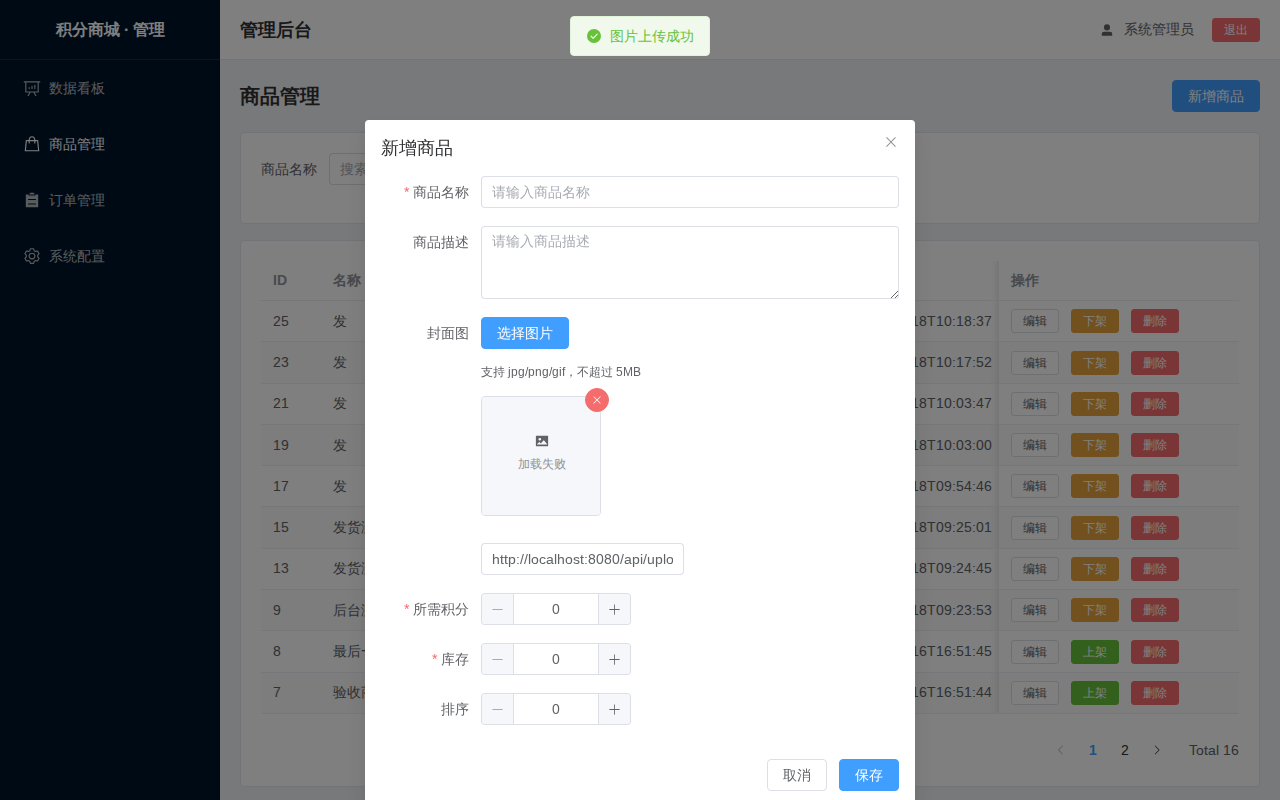
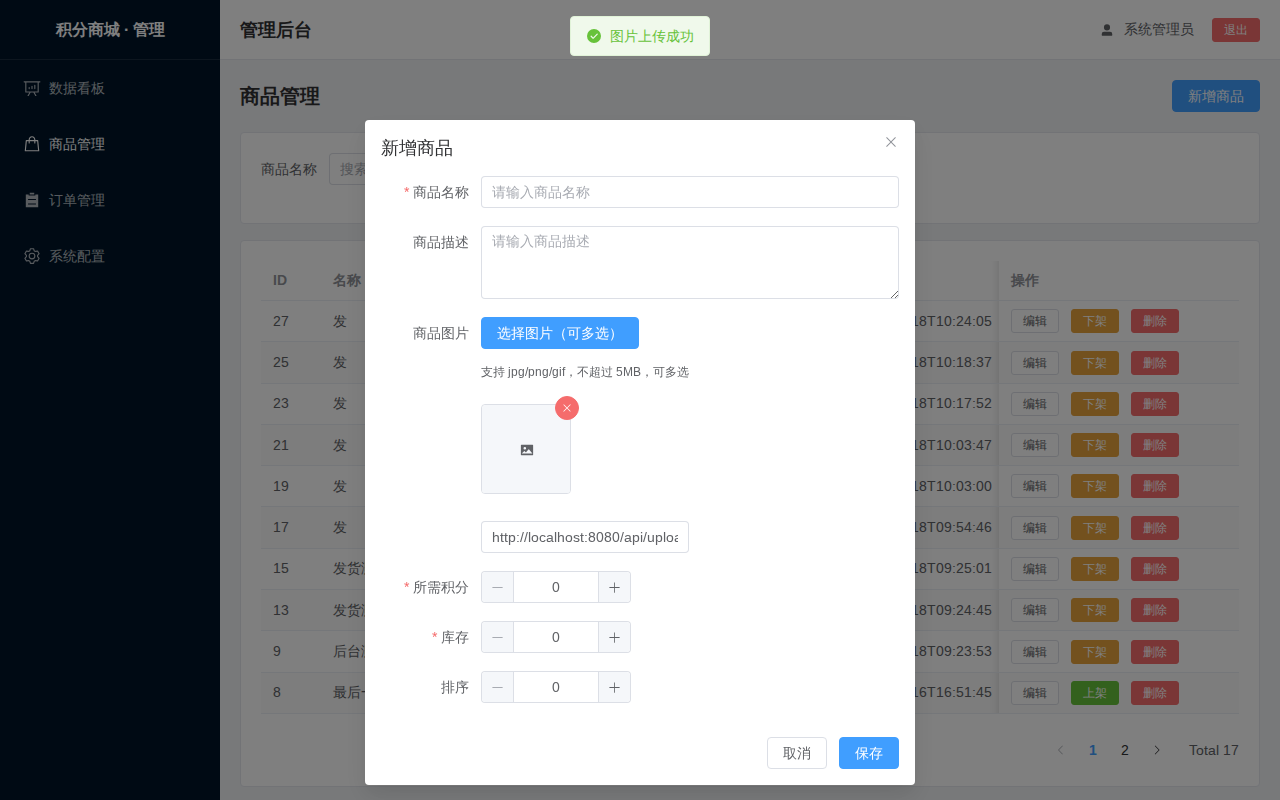
feat: 商品多图片上传支持

diff --git a/jifen-frontend/src/views/admin/Products.vue b/jifen-frontend/src/views/admin/Products.vue
@@ -79,44 +79,48 @@
             placeholder="请输入商品描述"
           />
         </el-form-item>
-        <el-form-item label="封面图" prop="coverImage">
+        <el-form-item label="商品图片" prop="coverImage">
           <div class="upload-wrapper">
+            <!-- 多图片上传区域 -->
             <el-upload
               ref="uploadRef"
               action="http://localhost:8080/api/admin/upload"
               :headers="uploadHeaders"
               :show-file-list="false"
+              multiple
               :before-upload="beforeUpload"
               :on-success="onUploadSuccess"
               :on-error="onUploadError"
             >
               <template #trigger>
-                <el-button type="primary" :loading="uploading">选择图片</el-button>
+                <el-button type="primary" :loading="uploading">选择图片（可多选）</el-button>
               </template>
               <template #tip>
-                <div class="el-upload__tip">支持 jpg/png/gif，不超过 5MB</div>
+                <div class="el-upload__tip">支持 jpg/png/gif，不超过 5MB，可多选</div>
               </template>
             </el-upload>
-            <div v-if="form.coverImage" class="upload-preview">
-              <el-image
-                :src="form.coverImage"
-                style="width: 120px; height: 120px; border-radius: 4px; border: 1px solid #dcdfe6;"
-                fit="cover"
-                :preview-src-list="[form.coverImage]"
-                preview-teleported
-              >
-                <template #error>
-                  <div class="image-slot">
-                    <el-icon><PictureFilled /></el-icon>
-                    <span style="font-size: 12px; color: #909399;">加载失败</span>
-                  </div>
-                </template>
-              </el-image>
-              <el-button class="remove-image-btn" size="small" type="danger" circle @click="form.coverImage = ''">
-                <el-icon><Close /></el-icon>
-              </el-button>
+            <!-- 已上传图片缩略图列表 -->
+            <div v-if="form.images.length > 0" class="image-thumbnail-list">
+              <div v-for="(img, idx) in form.images" :key="idx" class="image-thumbnail-item">
+                <el-image
+                  :src="img"
+                  style="width: 90px; height: 90px; border-radius: 4px; border: 1px solid #dcdfe6;"
+                  fit="cover"
+                  :preview-src-list="form.images"
+                  preview-teleported
+                >
+                  <template #error>
+                    <div class="image-slot">
+                      <el-icon><PictureFilled /></el-icon>
+                    </div>
+                  </template>
+                </el-image>
+                <el-button class="remove-image-btn" size="small" type="danger" circle @click="removeImage(idx)">
+                  <el-icon><Close /></el-icon>
+                </el-button>
+              </div>
             </div>
-            <el-input v-model="form.coverImage" placeholder="或手动输入图片URL" style="margin-top: 8px;" />
+            <el-input v-model="form.coverImage" placeholder="或手动输入封面图URL（可选）" style="margin-top: 8px;" />
           </div>
         </el-form-item>
         <el-form-item label="所需积分" prop="pointsRequired">
@@ -185,15 +189,22 @@ const beforeUpload = (file: File) => {
 
 const onUploadSuccess = (response: any, file: File, fileList: any) => {
   uploading.value = false
+  let url = ''
   if (response && response.code === 200 && response.data) {
-    form.coverImage = response.data
-    ElMessage.success('图片上传成功')
+    url = response.data
   } else if (response && response.url) {
-    form.coverImage = response.url
-    ElMessage.success('图片上传成功')
+    url = response.url
   } else {
     ElMessage.error('上传响应格式异常')
+    return
   }
+  // 添加到图片列表
+  form.images.push(url)
+  // 第一张图作为封面图
+  if (form.images.length === 1) {
+    form.coverImage = url
+  }
+  ElMessage.success('图片上传成功')
 }
 
 const onUploadError = (err: any, file: File, fileList: any) => {
@@ -207,7 +218,8 @@ const form = reactive({
   coverImage: '',
   pointsRequired: 0,
   stock: 0,
-  sortOrder: 0
+  sortOrder: 0,
+  images: [] as string[]
 })
 
 const rules: FormRules = {
@@ -260,6 +272,7 @@ function resetForm() {
   form.pointsRequired = 0
   form.stock = 0
   form.sortOrder = 0
+  form.images = []
 }
 
 function openCreateDialog() {
@@ -278,7 +291,18 @@ function openEditDialog(row: ProductItem) {
   form.pointsRequired = row.pointsRequired
   form.stock = row.stock
   form.sortOrder = row.sortOrder
+  form.images = row.images ? [...row.images] : []
   dialogVisible.value = true
+}
+
+function removeImage(idx: number) {
+  form.images.splice(idx, 1)
+  // 如果删除了封面图，更新封面图为第一张或清空
+  if (form.images.length > 0) {
+    form.coverImage = form.images[0]
+  } else {
+    form.coverImage = ''
+  }
 }
 
 async function saveProduct() {
@@ -367,5 +391,7 @@ async function handleDelete(row: ProductItem) {
 .upload-wrapper { display: flex; flex-direction: column; gap: 8px; align-items: flex-start; }
 .upload-preview { position: relative; display: inline-block; }
 .remove-image-btn { position: absolute; top: -8px; right: -8px; }
-.image-slot { display: flex; flex-direction: column; align-items: center; justify-content: center; width: 120px; height: 120px; background: #f5f7fa; border-radius: 4px; }
+.image-slot { display: flex; flex-direction: column; align-items: center; justify-content: center; width: 90px; height: 90px; background: #f5f7fa; border-radius: 4px; }
+.image-thumbnail-list { display: flex; flex-wrap: wrap; gap: 10px; margin-top: 8px; }
+.image-thumbnail-item { position: relative; display: inline-block; }
 </style>

diff --git a/jifen-frontend/src/api/admin.ts b/jifen-frontend/src/api/admin.ts
@@ -12,6 +12,7 @@ export interface ProductItem {
   saleCount: number
   createTime: string
   updateTime: string
+  images?: string[]
 }
 
 export interface OrderItem {

diff --git a/jifen-backend/src/main/java/com/jifen/modules/admin/AdminServiceImpl.java b/jifen-backend/src/main/java/com/jifen/modules/admin/AdminServiceImpl.java
@@ -16,6 +16,8 @@ import com.jifen.modules.order.OrderServiceImpl;
 import com.jifen.modules.order.dto.OrderVO;
 import com.jifen.modules.points.*;
 import com.jifen.modules.product.Product;
+import com.jifen.modules.product.ProductImage;
+import com.jifen.modules.product.ProductImageMapper;
 import com.jifen.modules.product.ProductMapper;
 import lombok.RequiredArgsConstructor;
 import lombok.extern.slf4j.Slf4j;
@@ -39,6 +41,7 @@ public class AdminServiceImpl implements AdminService {
     private final PointSignInMapper pointSignInMapper;
     private final PointRecordMapper pointRecordMapper;
     private final OrderServiceImpl orderService; // 用于订单VO转换
+    private final ProductImageMapper productImageMapper;
 
     // ===== 商品管理 =====
 
@@ -70,6 +73,13 @@ public class AdminServiceImpl implements AdminService {
             m.put("saleCount", p.getSaleCount());
             m.put("createTime", p.getCreateTime());
             m.put("updateTime", p.getUpdateTime());
+            // 查询商品图片列表
+            List<ProductImage> imgs = productImageMapper.selectList(
+                    Wrappers.lambdaQuery(ProductImage.class)
+                            .eq(ProductImage::getProductId, p.getId())
+                            .orderByAsc(ProductImage::getSortOrder));
+            List<String> imgUrls = imgs.stream().map(ProductImage::getImageUrl).collect(Collectors.toList());
+            m.put("images", imgUrls);
             return m;
         });
         return PageResult.of(voPage);
@@ -88,6 +98,10 @@ public class AdminServiceImpl implements AdminService {
         product.setSortOrder(request.getSortOrder() != null ? request.getSortOrder() : 0);
         product.setSaleCount(0);
         productMapper.insert(product);
+
+        // 保存多图片
+        saveProductImages(product.getId(), request.getImages());
+
         return product.getId();
     }
 
@@ -105,7 +119,29 @@ public class AdminServiceImpl implements AdminService {
         product.setStock(request.getStock());
         product.setSortOrder(request.getSortOrder() != null ? request.getSortOrder() : product.getSortOrder());
         productMapper.updateById(product);
+
+        // 先删除旧图片，再插入新图片
+        productImageMapper.delete(Wrappers.lambdaQuery(ProductImage.class)
+                .eq(ProductImage::getProductId, id));
+        saveProductImages(id, request.getImages());
+
         return product.getId();
+    }
+
+    /**
+     * 保存商品多图片
+     */
+    private void saveProductImages(Long productId, List<String> images) {
+        if (images == null || images.isEmpty()) {
+            return;
+        }
+        for (int i = 0; i < images.size(); i++) {
+            ProductImage pi = new ProductImage();
+            pi.setProductId(productId);
+            pi.setImageUrl(images.get(i));
+            pi.setSortOrder(i);
+            productImageMapper.insert(pi);
+        }
     }
 
     @Override

diff --git a/jifen-backend/src/main/java/com/jifen/modules/admin/dto/ProductFormRequest.java b/jifen-backend/src/main/java/com/jifen/modules/admin/dto/ProductFormRequest.java
@@ -2,6 +2,8 @@ package com.jifen.modules.admin.dto;
 
 import lombok.Data;
 
+import java.util.List;
+
 @Data
 public class ProductFormRequest {
     private String name;
@@ -10,4 +12,5 @@ public class ProductFormRequest {
     private Integer pointsRequired;
     private Integer stock;
     private Integer sortOrder;
+    private List<String> images;
 }
